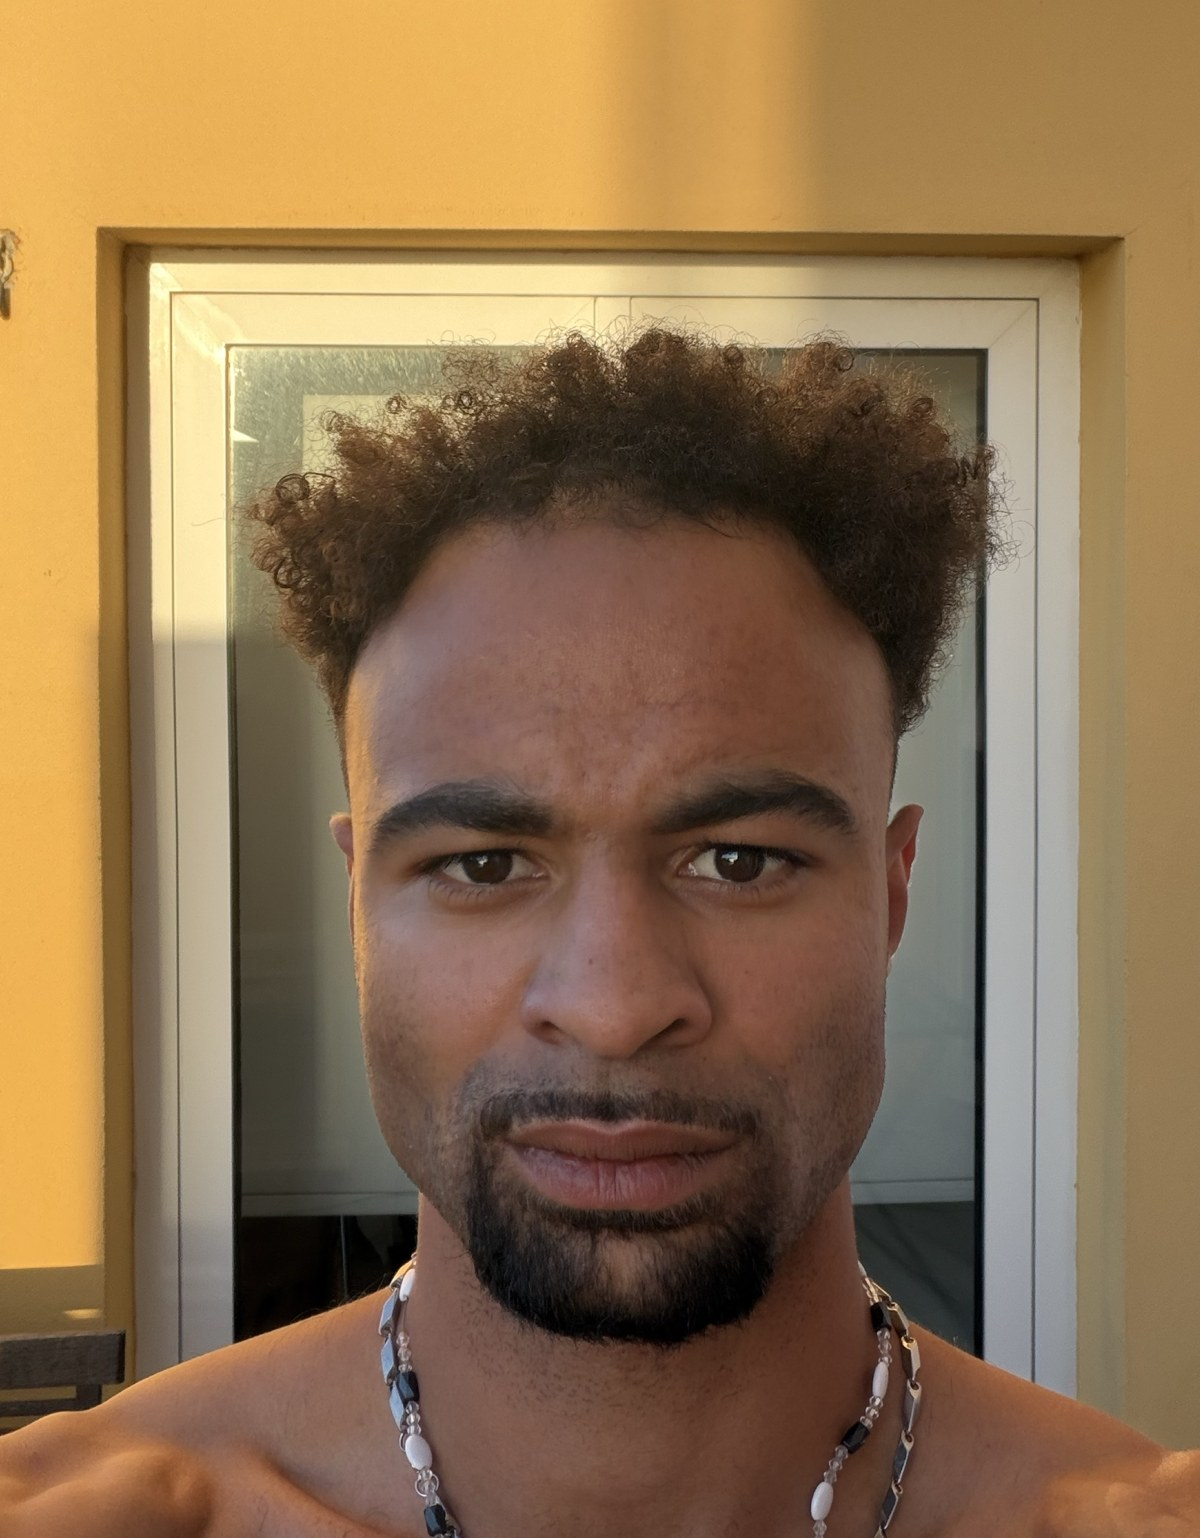
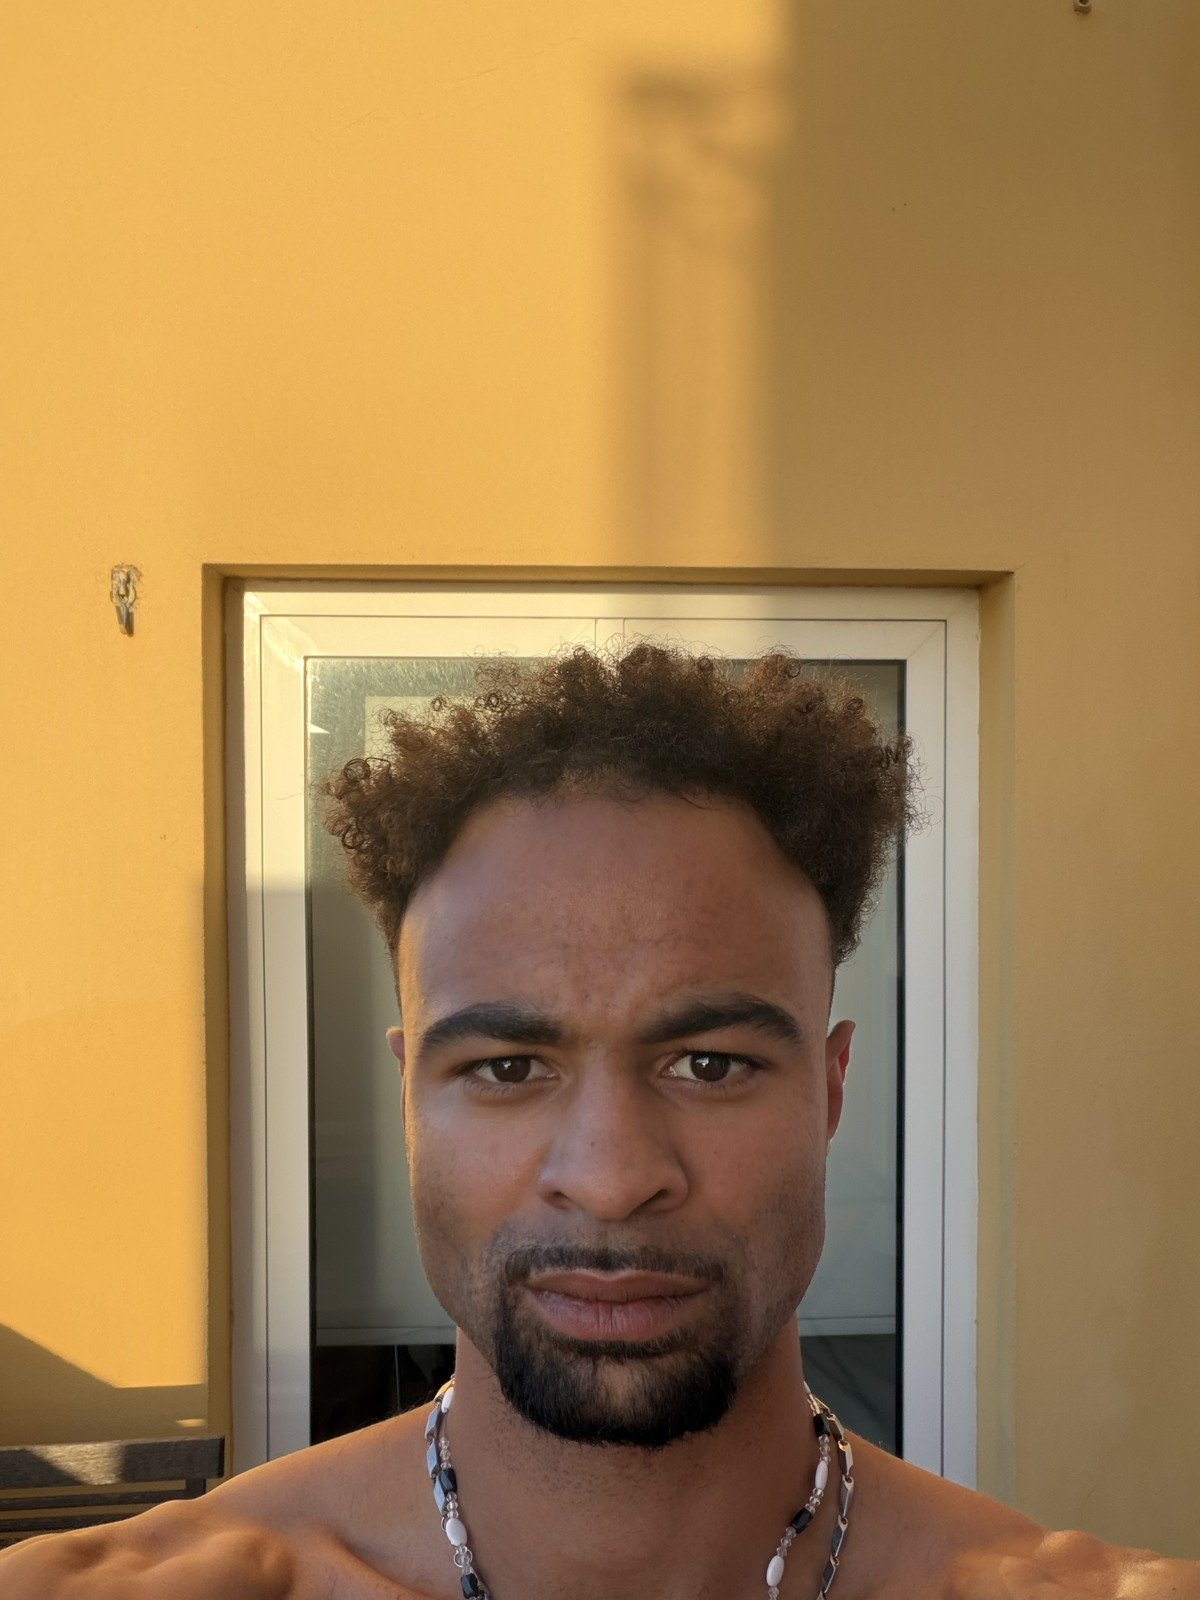
Founder page: use full Noahh photo (uncropped), center framing

diff --git a/react-app/src/pages/Founder.css b/react-app/src/pages/Founder.css
@@ -90,7 +90,7 @@
   max-width: 440px;
   aspect-ratio: 4 / 5;
   object-fit: cover;
-  object-position: 50% 38%;
+  object-position: 50% 50%;
   border-radius: 16px;
   border: 1px solid var(--bg4);
   display: block;
